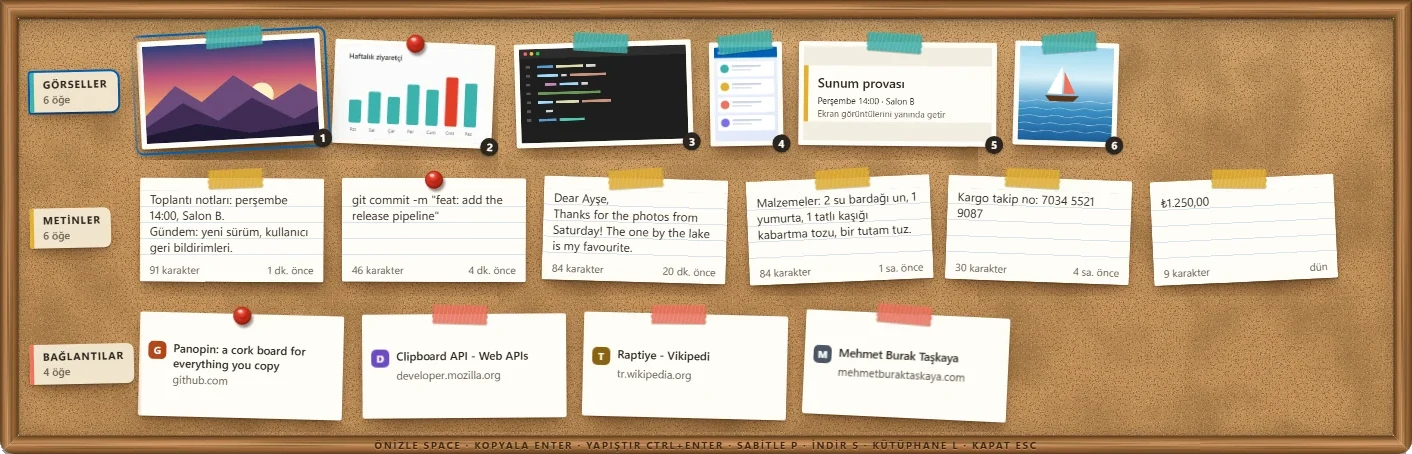
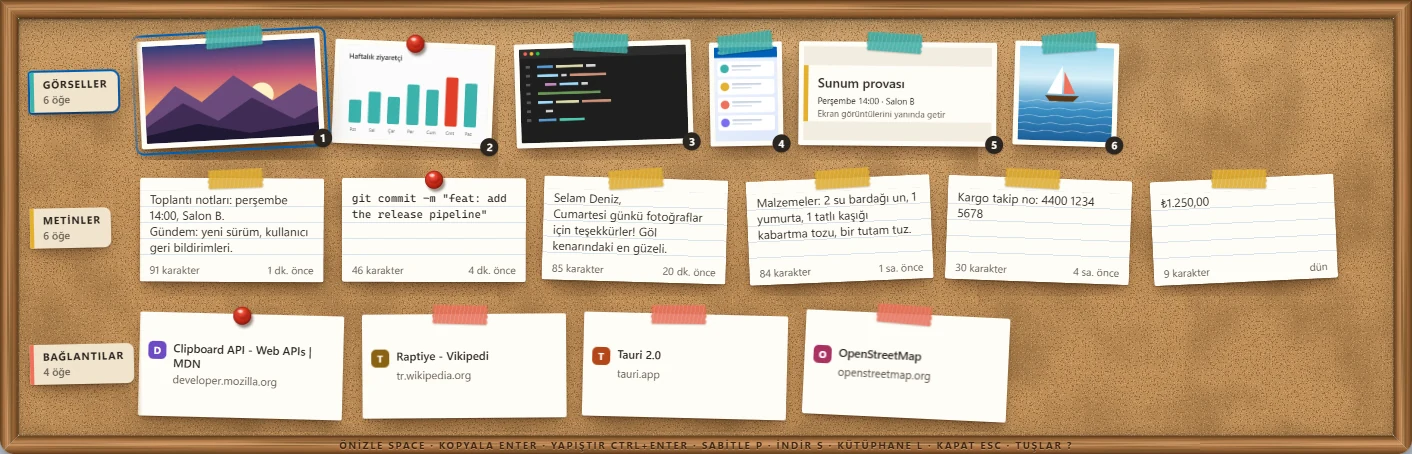
docs: show Panopin at work in the README
Both READMEs open with a demo GIF: the board slides over a mail draft,
a search for "room" finds a screenshot by its text and a copied text,
Ctrl+Enter pastes the text into the draft, and the board goes through
its 12 languages. Its first frame is the whole board, for readers who
keep animations paused.

The shelf pictures in site/assets are taken again with made-up items
only.

diff --git a/README.tr.md b/README.tr.md
@@ -15,10 +15,7 @@
   <a href="CHANGELOG.md">Değişiklikler</a>
 </p>
 
-![Görseller, Metinler ve Bağlantılar satırlarıyla Panopin rafı](site/assets/shelf-light-tr.webp)
-
-<!-- GIF yeri: bir şey kopyala, Win+Alt+V'ye bas, bir kart seç, Enter ile geri yapıştır
-     (site/assets/demo.gif). -->
+![Panopin iş başında: bir e-posta taslağının üzerinde Görseller, Metinler ve Bağlantılar satırlarıyla mantar pano. "room" araması bir ekran görüntüsünü içindeki yazıdan ve kopyalanmış bir metni buluyor, Ctrl+Enter metni taslağa yapıştırıyor. Ardından pano 12 dilinde görünüyor.](site/assets/demo.gif)
 
 Bir metin, bağlantı ya da görsel kopyala veya ekran görüntüsü al: Panopin onu sessizce saklar.
 **Win+Alt+V**'ye bastığında Görseller, Metinler ve Bağlantılar satırlarıyla bir mantar pano

diff --git a/README.md b/README.md
@@ -15,10 +15,7 @@
   <a href="CHANGELOG.md">Changelog</a>
 </p>
 
-![The Panopin shelf with its Images, Texts and Links rows](site/assets/shelf-light.webp)
-
-<!-- GIF placeholder: copy something, press Win+Alt+V, choose a card, press Enter to paste it back
-     (site/assets/demo.gif). -->
+![Panopin at work: the cork board with its Images, Texts and Links rows over a mail draft. A search for "room" finds a screenshot by the text in it and a copied text, and Ctrl+Enter pastes the text into the draft. Then the board goes through its 12 languages.](site/assets/demo.gif)
 
 Copy a text, a link or an image, or take a screenshot: Panopin keeps it, quietly. Press
 **Win+Alt+V** and a cork board slides down with three rows — Images, Texts and Links. Choose with

diff --git a/docs/BACKLOG.md b/docs/BACKLOG.md
@@ -68,4 +68,4 @@ Ideas and out-of-scope items. Nothing here is planned for v1.
 - winget and Scoop manifests (planned after v1.0.0).
 - The SignPath Foundation application once v1.0.0 is published (docs/SIGNING.md).
 - An ARM64 build.
-- A short demo GIF for the README and the website (the placeholders are in place).
+- The README's demo GIF (`site/assets/demo.gif`) in the website's Panopin section too.
